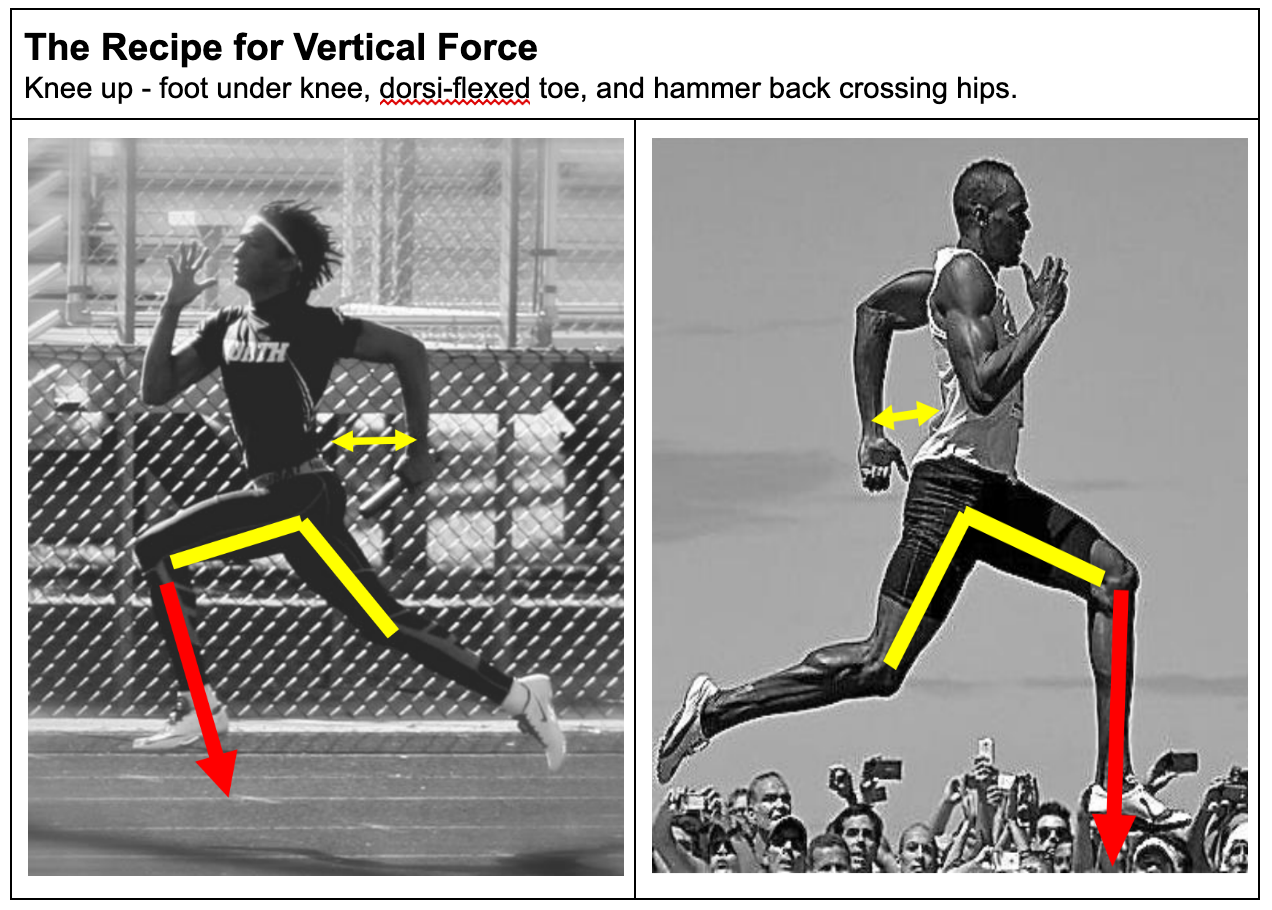
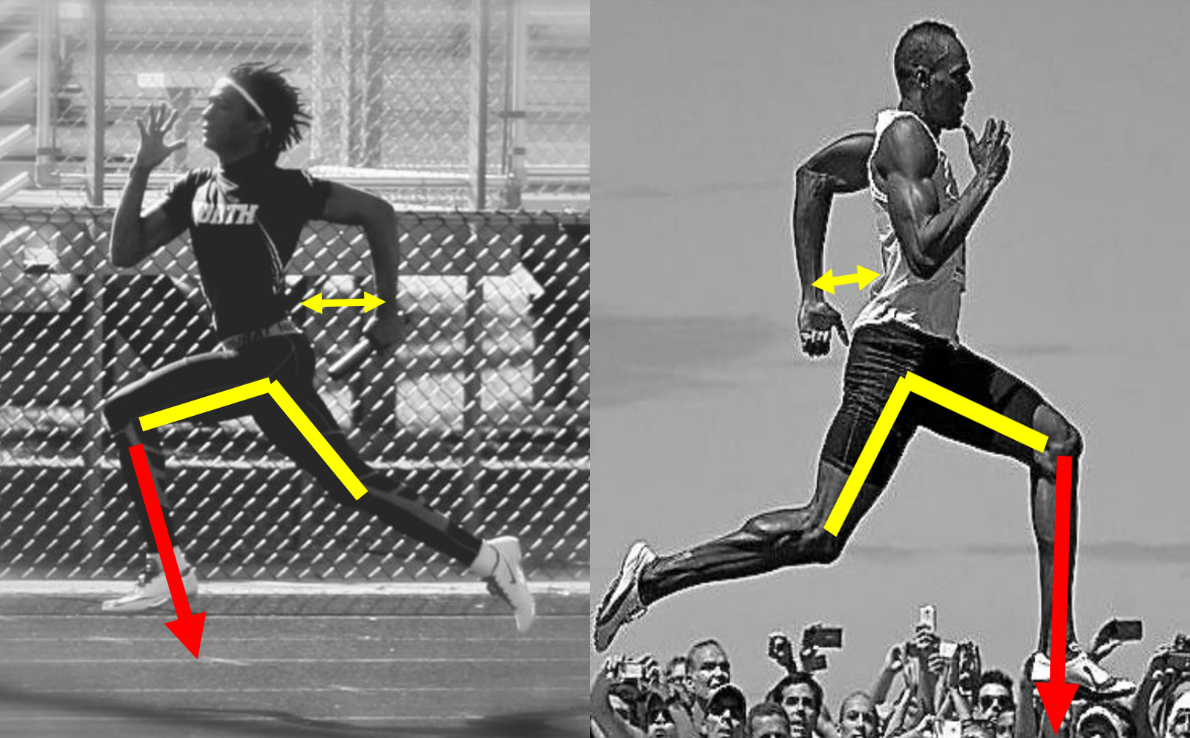
Sprint Cues post update

diff --git a/_posts/2019-02-28-sprint-cues-for-coaches.md b/_posts/2019-02-28-sprint-cues-for-coaches.md
@@ -1,16 +1,19 @@
 ---
 layout: post
 title: Sprint Cues for Coaches
+date: 2019-02-28 00:00:00
+description: We've put together our most common sprint cues for teaching your athletes proper sprint mechanics.
+featured_image: '/img/uploads/sprint-cues.png'
 ---
-Each season we seem to have new staff, either at the high school or middle school level.
+Each season we seem to have new staff, either at the high school or middle school level. Often they are volunteers and perhaps unfamiliar with Track & Field. To help work them into our sprint training, we've put together our most common sprint cues for teaching your athletes proper sprint mechanics.
 
-We've put together our most common sprint cues for teaching your athletes proper sprint mechanics.
+## Top 6 Sprint Cues
 
 1. **“Run tall”** - Great runners run with perfect posture _(shoulders back, abs tight, hips forward)_ … this is our #1 verbal cue … knee lift and glute recruitment requires tall posture. _"5’10” sprinters run at 6’0”"_
-2. **“Foot in front”** - The lead foot must get high and in front of the hips to create vertical force. 
+2. **“Foot in front”** - The lead foot must get high and in front of the hips to create vertical force.
 3. **“Fast and loose”** - Great sprinters make it look easy … practice making sprinting look effortless.
 4. **“Hammer back”** - Arms at 90 degrees … short levers = fast levers … lengthen on back stroke … elbow high on backswing … I really don’t say “hammer back” often … the next cue is my go-to.
-5. **“Cross the hips”** - Open palms cross the hips, (I say this constantly!) 
+5. **“Cross the hips”** - Open palms cross the hips, (I say this constantly!)
 6. **“Heel up, knee up, toe up”** - Dorsi-flexed foot is imperative _(like a loaded spring)_ – short lever, calf activation, minimizes ground contact.
 
-![]()
+![](/img/uploads/sprint-cues.png)
